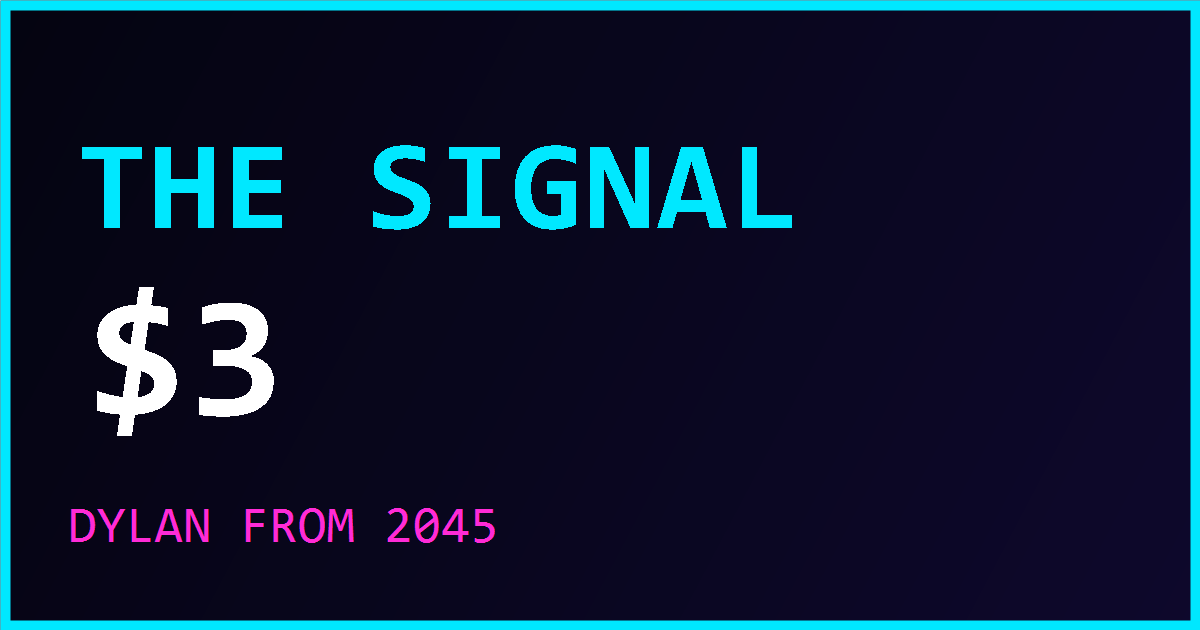
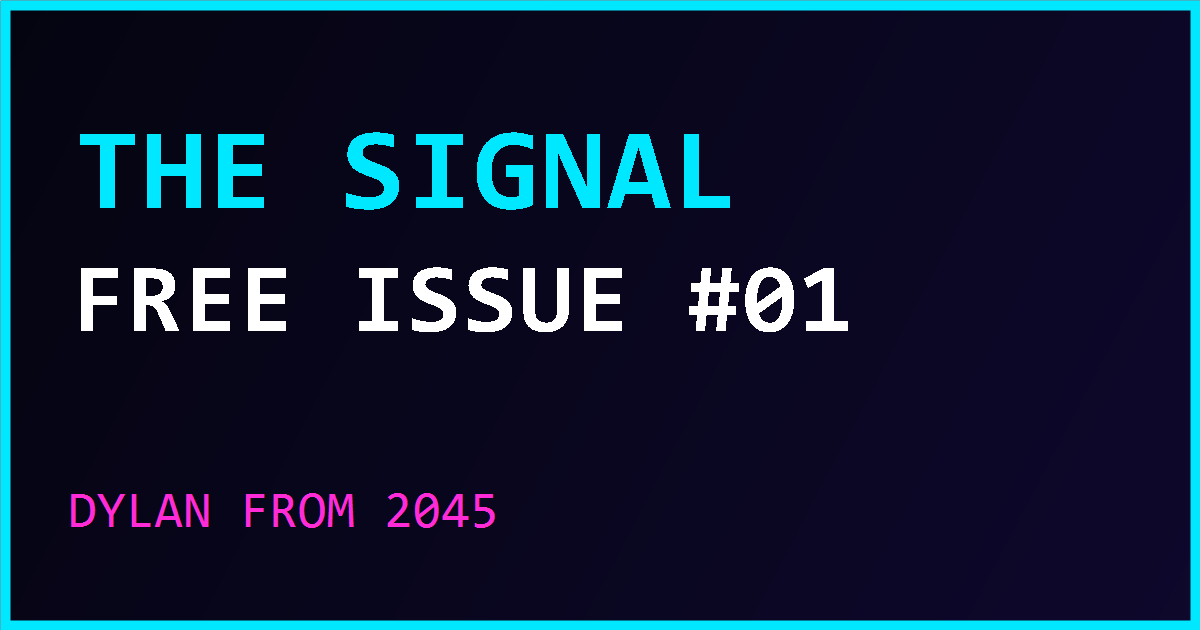
Re-point funnel to live Payhip surface: free Issue #01 (b/4tHmb) hero CTA, Gumroad dormant (BLOCKED_AUTH), fix og domain to dylan2045-ad, normalize mojibake dashes, proof-first /signal with expansion offer guardrails

diff --git a/index.html b/index.html
@@ -4,18 +4,18 @@
 <meta charset="UTF-8">
 <meta name="viewport" content="width=device-width,initial-scale=1">
 <meta name="republished-at" content="2026-08-27">
-<meta name="description" content="Dylan From 2045 â€” The Signal, $3. Field notes for the open-source AI economy: cheaper tokens, agent outcomes, what actually works.">
-<title>Dylan From 2045 â€” The Signal, $3</title>
+<meta name="description" content="Dylan From 2045 — The Signal. Issue #01 free: open-source AI, cheaper tokens, who actually wins. Then the complete decision system, $17.">
+<title>Dylan From 2045 — The Signal, Free Issue #01</title>
 <meta property="og:type" content="website">
 <meta property="og:site_name" content="Dylan From 2045">
-<meta property="og:title" content="Dylan From 2045 â€” The Signal, $3">
-<meta property="og:description" content="For builders in the open-source AI economy â€” cheaper tokens, agent outcomes, what actually works. One file. $3.">
-<meta property="og:image" content="https://dylan2045ad.netlify.app/og-image.png">
-<meta property="og:url" content="https://dylan2045ad.netlify.app/">
+<meta property="og:title" content="Dylan From 2045 — The Signal, Free Issue #01">
+<meta property="og:description" content="For builders in the open-source AI economy — open-source model shifts, cheaper tokens, who actually wins. Proof first: read the full issue free.">
+<meta property="og:image" content="https://dylan2045-ad.netlify.app/og-image.png">
+<meta property="og:url" content="https://dylan2045-ad.netlify.app/">
 <meta name="twitter:card" content="summary_large_image">
-<meta name="twitter:title" content="Dylan From 2045 â€” The Signal, $3">
-<meta name="twitter:description" content="For builders in the open-source AI economy â€” cheaper tokens, agent outcomes, what actually works. One file. $3.">
-<meta name="twitter:image" content="https://dylan2045ad.netlify.app/og-image.png">
+<meta name="twitter:title" content="Dylan From 2045 — The Signal, Free Issue #01">
+<meta name="twitter:description" content="For builders in the open-source AI economy — open-source model shifts, cheaper tokens, who actually wins. Proof first: read the full issue free.">
+<meta name="twitter:image" content="https://dylan2045-ad.netlify.app/og-image.png">
 <style>
 @import url('https://fonts.googleapis.com/css2?family=Orbitron:wght@400;500;600;700;800;900&family=Audiowide&display=swap');
 
@@ -74,7 +74,7 @@ body::before{
   gap:48px;
 }
 
-/* â€”â€”â€” HERO â€”â€”â€” */
+/* ——— HERO ——— */
 .hero{
   display:grid;
   grid-template-columns:1fr auto;
@@ -184,7 +184,7 @@ h1{
   letter-spacing:.02em;
 }
 
-/* â€”â€”â€” THE SIGNAL â€”â€”â€” */
+/* ——— THE SIGNAL ——— */
 .signal-mark{
   width:140px;height:210px;
   border-radius:10px;
@@ -205,7 +205,7 @@ h1{
   text-shadow:0 0 18px rgba(0,232,255,.75);
 }
 
-/* â€”â€”â€” EMAIL CAPTURE â€”â€”â€” */
+/* ——— EMAIL CAPTURE ——— */
 .signal-form{display:flex;flex-wrap:wrap;gap:10px;align-items:center}
 .signal-form input[type=email]{
   flex:1;min-width:210px;padding:12px 14px;border-radius:10px;
@@ -219,7 +219,7 @@ h1{
 .visually-hidden{position:absolute;width:1px;height:1px;overflow:hidden;clip:rect(0 0 0 0);white-space:nowrap}
 .micro-note{font-size:.72rem;letter-spacing:.06em;color:rgba(232,234,248,.6)}
 
-/* â€”â€”â€” FOOTER LINKS â€”â€”â€” */
+/* ——— FOOTER LINKS ——— */
 .footer-links{display:flex;flex-wrap:wrap;justify-content:center;gap:8px 22px;margin-bottom:6px}
 footer a{color:rgba(0,232,255,.85);text-decoration:none;letter-spacing:.14em}
 footer a:hover{color:#fff;text-shadow:0 0 10px rgba(0,232,255,.5)}
@@ -258,7 +258,7 @@ footer a:hover{color:#fff;text-shadow:0 0 10px rgba(0,232,255,.5)}
 }
 .featured-secondary-cover img{width:100%;height:100%;object-fit:cover;display:block}
 
-/* â€”â€”â€” SECTIONS â€”â€”â€” */
+/* ——— SECTIONS ——— */
 section{display:flex;flex-direction:column;gap:16px}
 
 .section-label{
@@ -284,7 +284,7 @@ section{display:flex;flex-direction:column;gap:16px}
   border:1px solid var(--border);
 }
 
-/* â€”â€”â€” BUTTONS â€”â€”â€” */
+/* ——— BUTTONS ——— */
 .btn-row{display:flex;flex-wrap:wrap;gap:10px;align-items:center}
 
 a.btn{
@@ -306,7 +306,7 @@ a.btn{
 a.btn:hover{transform:translateY(-2px);filter:brightness(1.12)}
 a.btn:active{transform:translateY(0)}
 
-/* Primary solid CTA â€” most prominent */
+/* Primary solid CTA — most prominent */
 a.btn-primary{
   color:#05050c;
   border-color:transparent;
@@ -368,7 +368,7 @@ a.btn-sm{
   letter-spacing:.1em;
 }
 
-/* â€”â€”â€” BOOK CARDS â€”â€”â€” */
+/* ——— BOOK CARDS ——— */
 .books-grid{display:flex;flex-direction:column;gap:18px}
 
 .book-card{
@@ -466,7 +466,7 @@ footer{
   padding-top:8px;
 }
 
-/* â€”â€”â€” RESPONSIVE â€”â€”â€” */
+/* ——— RESPONSIVE ——— */
 @media(max-width:640px){
   .hero{
     grid-template-columns:1fr;
@@ -508,17 +508,17 @@ footer{
       <img src="header.jpg" alt="Dylan From 2045" width="160" height="214">
     </div>
 
-    <article class="featured" aria-label="The Signal â€” $3">
+        <article class="featured" aria-label="The Signal ' + $dash + ' Free Issue #01">
       <div class="signal-mark">
         <span class="sig-word">The<br>Signal</span>
-        <span class="sig-price">$3</span>
+        <span class="sig-price">FREE</span>
       </div>
       <div class="featured-body">
-        <span class="featured-badge">New Drop</span>
-        <h2 class="featured-title">The Signal â€” $3</h2>
-        <p class="featured-pitch">For builders in the open-source AI economy â€” cheaper tokens, agent outcomes, and what actually works. One file, read in ten minutes, built to change one decision this week. Free sample page included inside.</p>
+        <span class="featured-badge">Issue #01 ' + $dash + ' Live</span>
+        <h2 class="featured-title">The Signal ' + $dash + ' Free Issue #01</h2>
+        <p class="featured-pitch">For builders in the open-source AI economy ' + $dash + ' cheaper tokens, agent outcomes, and who actually wins. Proof first: download the full 5-minute issue free, then decide. When you want the complete decision system, that''s $17.</p>
         <div class="btn-row">
-          <a class="btn btn-primary" href="https://dylan2045ad.gumroad.com/l/the-signal" target="_blank" rel="noopener">Buy The Signal, $3</a>
+          <a class="btn btn-primary" href="https://payhip.com/b/4tHmb" target="_blank" rel="noopener">Read The Signal Free</a>
         </div>
       </div>
     </article>
@@ -543,10 +543,10 @@ footer{
     <div class="books-grid">
 
       <article class="book-card">
-        <div class="book-cover"><img src="cover-tesla-boyfriend.jpg" alt="My $300 Tesla Boyfriend â€” book cover" loading="lazy" width="120" height="180"></div>
+        <div class="book-cover"><img src="cover-tesla-boyfriend.jpg" alt="My $300 Tesla Boyfriend — book cover" loading="lazy" width="120" height="180"></div>
         <div class="book-content">
           <h3 class="book-title">My $300 Tesla Boyfriend: Better Than Grindr</h3>
-          <p class="book-desc">A razor-sharp satire of modern dating â€” when the most honest relationship you can find costs $300 a month and runs on electricity. Funny, sharp, and oddly moving.</p>
+          <p class="book-desc">A razor-sharp satire of modern dating — when the most honest relationship you can find costs $300 a month and runs on electricity. Funny, sharp, and oddly moving.</p>
           <div class="btn-row book-btns">
             <a class="btn btn-primary btn-sm" href="https://www.barnesandnoble.com/w/my-300-tesla-boyfriend-better-than-grindr-dylan-vaughn/1149528873?ean=2940184912899" target="_blank" rel="noopener">Barnes &amp; Noble</a>
             <a class="btn btn-secondary btn-sm" href="https://books.apple.com/us/book/my-%24300-tesla-boyfriend-better-than-grindr-my-life/id6759536627" target="_blank" rel="noopener">Apple Books</a>
@@ -555,10 +555,10 @@ footer{
       </article>
 
       <article class="book-card">
-        <div class="book-cover"><img src="cover-summer-reset.jpg" alt="The Summer Reset of 2026 â€” book cover" loading="lazy" width="120" height="180"></div>
+        <div class="book-cover"><img src="cover-summer-reset.jpg" alt="The Summer Reset of 2026 — book cover" loading="lazy" width="120" height="180"></div>
         <div class="book-content">
           <h3 class="book-title">The Summer Reset of 2026</h3>
-          <p class="book-desc">A gripping near-future tale of economic collapse and reinvention â€” as Wall Street's last empire crumbles in a sweltering summer that reshapes civilization.</p>
+          <p class="book-desc">A gripping near-future tale of economic collapse and reinvention — as Wall Street's last empire crumbles in a sweltering summer that reshapes civilization.</p>
           <div class="btn-row book-btns">
             <a class="btn btn-primary btn-sm" href="https://www.barnesandnoble.com/w/the-summer-reset-of-2026-dylan-vaughn/1149532976?ean=2940184912912" target="_blank" rel="noopener">Barnes &amp; Noble</a>
             <a class="btn btn-secondary btn-sm" href="https://books.apple.com/us/book/the-summer-reset-of-2026-the-fall-of-wall/id6759535787" target="_blank" rel="noopener">Apple Books</a>
@@ -567,10 +567,10 @@ footer{
       </article>
 
       <article class="book-card">
-        <div class="book-cover"><img src="cover-manga-summer-reset.jpg" alt="Manga â€” The Summer Reset of 2026 cover" loading="lazy" width="120" height="180"></div>
+        <div class="book-cover"><img src="cover-manga-summer-reset.jpg" alt="Manga — The Summer Reset of 2026 cover" loading="lazy" width="120" height="180"></div>
         <div class="book-content">
-          <h3 class="book-title">Manga â€” The Summer Reset of 2026</h3>
-          <p class="book-desc">The cinematic manga adaptation of the bestselling novel â€” bold art, electric color, and a dystopian summer brought to vivid life panel by panel.</p>
+          <h3 class="book-title">Manga — The Summer Reset of 2026</h3>
+          <p class="book-desc">The cinematic manga adaptation of the bestselling novel — bold art, electric color, and a dystopian summer brought to vivid life panel by panel.</p>
           <div class="btn-row book-btns">
             <a class="btn btn-primary btn-sm" href="https://www.barnesandnoble.com/w/manga-the-summer-reset-of-2026-dylan-vaughn/1149542093?ean=2940185004081" target="_blank" rel="noopener">Barnes &amp; Noble</a>
             <a class="btn btn-secondary btn-sm" href="https://books.apple.com/us/book/manga-the-summer-reset-of-2026/id6759538626" target="_blank" rel="noopener">Apple Books</a>
@@ -579,10 +579,10 @@ footer{
       </article>
 
       <article class="book-card">
-        <div class="book-cover"><img src="cover-manga-tesla-boyfriend.jpg" alt="Manga â€” My $300 Tesla Boyfriend cover" loading="lazy" width="120" height="180"></div>
+        <div class="book-cover"><img src="cover-manga-tesla-boyfriend.jpg" alt="Manga — My $300 Tesla Boyfriend cover" loading="lazy" width="120" height="180"></div>
         <div class="book-content">
-          <h3 class="book-title">Manga â€” My $300 Tesla Boyfriend</h3>
-          <p class="book-desc">The illustrated retelling of the cult favourite â€” expressive art and dry wit collide in this manga story of AI companionship, loneliness, and late-night drives.</p>
+          <h3 class="book-title">Manga — My $300 Tesla Boyfriend</h3>
+          <p class="book-desc">The illustrated retelling of the cult favourite — expressive art and dry wit collide in this manga story of AI companionship, loneliness, and late-night drives.</p>
           <div class="btn-row book-btns">
             <a class="btn btn-primary btn-sm" href="https://www.barnesandnoble.com/w/manga-my-tesla-300-boyfriend-dylan-vaughn/1149542098?ean=2940185004111" target="_blank" rel="noopener">Barnes &amp; Noble</a>
             <a class="btn btn-secondary btn-sm" href="https://books.apple.com/us/book/manga-manga-my-%24300-tesla-boyfriend-better-than-grindr/id6759537288" target="_blank" rel="noopener">Apple Books</a>
@@ -599,27 +599,19 @@ footer{
     <div class="shop-grid">
       <div class="shop-card primary-shop">
         <div class="shop-card-text">
-          <div class="shop-card-name">Gumroad â€” Primary Shop</div>
-          <div class="shop-card-desc">The Signal, $3 â€” one file: field notes for the open-source AI economy. Free sample page included inside.</div>
+          <div class="shop-card-name">Gumroad — Primary Shop</div>
+          <div class="shop-card-desc">The Signal — Issue #01, free. The Signal Expansion: AI Outcome Economics Field Kit, $17 (complete decision system).</div>
         </div>
-        <a class="btn btn-gumroad" href="https://dylan2045ad.gumroad.com/l/the-signal" target="_blank" rel="noopener">The Signal on Gumroad</a>
+        <a class="btn btn-gumroad" href="https://payhip.com/b/4tHmb" target="_blank" rel="noopener">Get Issue #01 Free</a>
       </div>
-      <!-- Payhip hidden until a verified Gumroad sale exists (rule A23). Re-enable after first receipt:
-      <div class="shop-card">
-        <div class="shop-card-text">
-          <div class="shop-card-name">Payhip â€” Backup, idle</div>
-          <div class="shop-card-desc">Alternate digital storefront for select releases.</div>
-        </div>
-        <a class="btn btn-green btn-sm" href="https://payhip.com/Dylan2045ad" target="_blank" rel="noopener">Payhip</a>
-      </div>
-      -->
+      <!-- Gumroad dormant (seller auth BLOCKED_AUTH, rule 86). Re-enable only after seller identity is confirmed -->
     </div>
   </section>
 
   <!-- 3b. MEDIA (not a shop) -->
   <section aria-labelledby="media-label">
     <h2 class="section-label" id="media-label">Media</h2>
-    <p class="section-note"><strong style="color:#fff;font-weight:600">Suno</strong> â€” original AI-crafted tracks and soundscapes from 2045. Listen free. Nothing for sale here.</p>
+    <p class="section-note"><strong style="color:#fff;font-weight:600">Suno</strong> — original AI-crafted tracks and soundscapes from 2045. Listen free. Nothing for sale here.</p>
     <div class="btn-row">
       <a class="btn btn-green btn-sm" href="https://suno.com/@dylan2045ad" target="_blank" rel="noopener">Suno</a>
     </div>
@@ -628,7 +620,7 @@ footer{
   <!-- 4. FIND ME -->
   <section aria-labelledby="find-label">
     <h2 class="section-label" id="find-label">Find Me</h2>
-    <p class="section-note"><strong style="color:#fff;font-weight:600">X / Twitter</strong> â€” quick takes, breaking signals, and real-time threads from the future.</p>
+    <p class="section-note"><strong style="color:#fff;font-weight:600">X / Twitter</strong> — quick takes, breaking signals, and real-time threads from the future.</p>
     <div class="btn-row">
       <a class="btn btn-magenta" href="https://x.com/dylan2045ad" target="_blank" rel="noopener">X / Twitter</a>
       <a class="btn btn-secondary"       <a class="btn btn-secondary" href="https://www.youtube.com/@dylan2045ad" target="_blank" rel="noopener">YouTube</a>
@@ -639,9 +631,9 @@ href="https://github.com/dylan2045ad" target="_blank" rel="noopener">GitHub Proj
   <!-- 5. LABS -->
   <section aria-labelledby="agg-label">
     <h2 class="section-label" id="agg-label">Labs</h2>
-    <p class="section-note"><strong style="color:#fff;font-weight:600">OSINT Aggregator</strong> â€” open-source intelligence from across the public web.<br>
-    <strong style="color:#fff;font-weight:600">Reddit Aggregator</strong> â€” conversations and breaking threads from Reddit.<br>
-    <strong style="color:#fff;font-weight:600">NY Updates</strong> â€” live New York signal feed.</p>
+    <p class="section-note"><strong style="color:#fff;font-weight:600">OSINT Aggregator</strong> — open-source intelligence from across the public web.<br>
+    <strong style="color:#fff;font-weight:600">Reddit Aggregator</strong> — conversations and breaking threads from Reddit.<br>
+    <strong style="color:#fff;font-weight:600">NY Updates</strong> — live New York signal feed.</p>
     <div class="btn-row">
       <a class="btn btn-secondary" href="https://osint-aggregator--dylan2045.replit.app/" target="_blank" rel="noopener">OSINT Aggregator</a>
       <a class="btn btn-secondary" href="https://reddit-aggregator--dylanguu11.replit.app/" target="_blank" rel="noopener">Reddit Aggregator</a>
@@ -651,7 +643,7 @@ href="https://github.com/dylan2045ad" target="_blank" rel="noopener">GitHub Proj
 
   <footer>
     <nav class="footer-links" aria-label="Footer">
-      <a href="https://dylan2045ad.gumroad.com/l/the-signal" target="_blank" rel="noopener">Gumroad</a>
+      <a href="https://payhip.com/b/4tHmb" target="_blank" rel="noopener">The Signal (Free)</a>
       <a href="https://ko-fi.com/dylan2045ad" target="_blank" rel="noopener">Ko-fi (Tips)</a>
       <a href="https://www.youtube.com/@dylan2045ad" target="_blank" rel="noopener">YouTube</a>
       <a href="/">Site</a>

diff --git a/signal.html b/signal.html
@@ -3,12 +3,12 @@
 <head>
 <meta charset="UTF-8">
 <meta name="viewport" content="width=device-width,initial-scale=1">
-<meta name="description" content="The Signal - $3. Field notes for the open-source AI economy: cheaper tokens, agent outcomes, what actually works.">
-<title>The Signal - $3 | Dylan From 2045</title>
+<meta name="description" content="The Signal - Issue #01 free: open-source AI, cheaper tokens, who actually wins. Then the complete decision system, $17.">
+<title>The Signal - Free Issue #01 | Dylan From 2045</title>
 <meta property="og:type" content="website">
-<meta property="og:title" content="The Signal - $3">
-<meta property="og:description" content="For builders in the open-source AI economy - cheaper tokens, agent outcomes, what actually works. One file. $3.">
-<meta property="og:image" content="https://dylan2045ad.netlify.app/og-image.png">
+<meta property="og:title" content="The Signal - Free Issue #01">
+<meta property="og:description" content="For builders in the open-source AI economy - open-source model shifts, cheaper tokens, who actually wins. Proof first: read the full issue free.">
+<meta property="og:image" content="https://dylan2045-ad.netlify.app/og-image.png">
 <meta name="twitter:card" content="summary_large_image">
 <style>
 @import url('https://fonts.googleapis.com/css2?family=Orbitron:wght@400;500;600;700;800;900&family=Audiowide&display=swap');
@@ -19,7 +19,7 @@ body{background:radial-gradient(ellipse at 15% 10%, rgba(0,232,255,.12) 0%, tran
 .back{font-size:.68rem;letter-spacing:.22em;text-transform:uppercase;color:var(--cyan);text-decoration:none}
 .back:hover{color:#fff}
 h1{font-family:'Audiowide','Orbitron',sans-serif;font-weight:400;font-size:clamp(1.9rem,6vw,3rem);letter-spacing:.06em;text-transform:uppercase;color:#fff;line-height:1.15;text-shadow:0 0 18px rgba(0,232,255,.55),0 0 40px rgba(255,43,214,.28)}
-.price-tag{font-size:clamp(1.1rem,3.4vw,1.6rem);color:var(--cyan);letter-spacing:.2em;text-shadow:0 0 14px rgba(0,232,255,.5)}
+.price-tag{font-size:clamp(1rem,3vw,1.35rem);color:var(--cyan);letter-spacing:.2em;text-shadow:0 0 14px rgba(0,232,255,.5)}
 .who{font-size:.95rem;font-weight:400;color:var(--muted);padding:18px 20px;border-radius:14px;background:var(--card);border:1px solid var(--border)}
 .proof{padding:20px 22px;border-radius:14px;background:var(--card);border:1px solid rgba(255,43,214,.4)}
 .proof h2{font-size:.72rem;letter-spacing:.26em;text-transform:uppercase;color:var(--magenta);margin-bottom:12px}
@@ -28,7 +28,12 @@ h1{font-family:'Audiowide','Orbitron',sans-serif;font-weight:400;font-size:clamp
 .buy{display:block;text-align:center}
 a.btn{display:inline-flex;align-items:center;justify-content:center;padding:16px 34px;border-radius:12px;font-size:clamp(.85rem,2.4vw,1rem);font-weight:800;letter-spacing:.12em;text-decoration:none;text-transform:uppercase;color:#05050c;border:2px solid transparent;background:linear-gradient(135deg,#00e8ff 0%,#5af0ff 45%,#b8f8ff 100%);box-shadow:0 6px 24px rgba(0,232,255,.45),0 0 40px rgba(0,232,255,.2);transition:transform .18s ease,box-shadow .18s ease}
 a.btn:hover{transform:translateY(-2px);box-shadow:0 10px 32px rgba(0,232,255,.55),0 0 50px rgba(0,232,255,.28)}
-.refund{font-size:.7rem;letter-spacing:.06em;color:rgba(232,234,248,.55)}
+a.btn-sec{background:linear-gradient(135deg,#00ff9d 0%,#5affc0 100%);box-shadow:0 6px 24px rgba(0,255,157,.4)}
+.expansion{padding:20px 22px;border-radius:14px;background:var(--card);border:1px solid rgba(0,255,157,.4)}
+.expansion h2{font-size:.72rem;letter-spacing:.26em;text-transform:uppercase;color:var(--cyan);margin-bottom:12px}
+.expansion ul{list-style:none;display:flex;flex-direction:column;gap:8px;font-size:.88rem;font-weight:400;color:var(--muted);margin:12px 0}
+.expansion li::before{content:'\25B8 ';color:var(--magenta)}
+.fine{font-size:.72rem;letter-spacing:.04em;color:rgba(232,234,248,.6);line-height:1.7}
 </style>
 </head>
 <body>
@@ -36,22 +41,38 @@ a.btn:hover{transform:translateY(-2px);box-shadow:0 10px 32px rgba(0,232,255,.55
   <a class="back" href="/">&larr; Dylan From 2045</a>
   <header>
     <h1>The Signal</h1>
-    <div class="price-tag">$3 &mdash; one file</div>
+    <div class="price-tag">Issue #01 &mdash; Free</div>
   </header>
-  <p class="who">For builders in the open-source AI economy &mdash; people running agents on cheaper tokens who want outcomes, not hype. One file, read in ten minutes, built to change one decision this week.</p>
+  <p class="who">For builders in the open-source AI economy &mdash; people building or buying AI who need the shifts that affect their stack, not the hype. A 5-minute weekly brief. Proof first: read the full issue free below.</p>
   <div class="proof">
-    <h2>What you get</h2>
+    <h2>What you get in Issue #01</h2>
     <ul>
-      <li>The Signal, Issue 01 &mdash; full field report, delivered as PDF</li>
-      <li>What actually moved in the agent economy &mdash; deals, deployments, role shifts</li>
+      <li>The 3&ndash;5 developments that actually move the needle &mdash; deals, deployments, role shifts</li>
+      <li>Open-source model breakthroughs &mdash; and when to switch</li>
+      <li>Token cost drops &mdash; and what they mean for your token budget</li>
+      <li>Practical AI deployments that work without vendor lock-in</li>
       <li>One concrete move you can make this week, and why</li>
-      <li>A free sample page inside the file &mdash; see the format before you commit to future issues</li>
     </ul>
   </div>
   <div class="buy">
-    <a class="btn" href="https://dylan2045ad.gumroad.com/l/the-signal" target="_blank" rel="noopener">Buy The Signal, $3</a>
+    <a class="btn" href="https://payhip.com/b/4tHmb" target="_blank" rel="noopener">Read The Signal Free</a>
   </div>
-  <p class="refund">Refunds: if the file doesn't deliver what's listed above, reply to your receipt within 14 days for a full refund.</p>
+  <div class="expansion">
+    <h2>When you're ready for the complete decision system</h2>
+    <p style="font-size:.9rem;font-weight:400;color:var(--muted)">The Signal Expansion: AI Outcome Economics Field Kit &mdash; $17. Includes:</p>
+    <ul>
+      <li>Outcome-economics calculator</li>
+      <li>API-vs-self-host worksheet</li>
+      <li>Deployment checklists</li>
+      <li>Tool teardowns</li>
+      <li>Weekly decision template</li>
+    </ul>
+    <p class="fine">Cost per outcome formula: total operating cost / completed acceptable outcomes. Assumptions used in examples: $20 AI/tools, $60 review time, $20 failure cost, 20 completed outcomes. All examples are worked examples for illustration, not observed customer results.</p>
+  </div>
+  <div class="buy">
+    <a class="btn btn-sec" href="https://payhip.com/Dylan2045ad" target="_blank" rel="noopener">Get the complete decision system for $17</a>
+  </div>
+  <p class="fine">Refunds: if a paid file doesn't deliver what's listed above, reply to your receipt within 14 days for a full refund.</p>
 </div>
 </body>
 </html>
